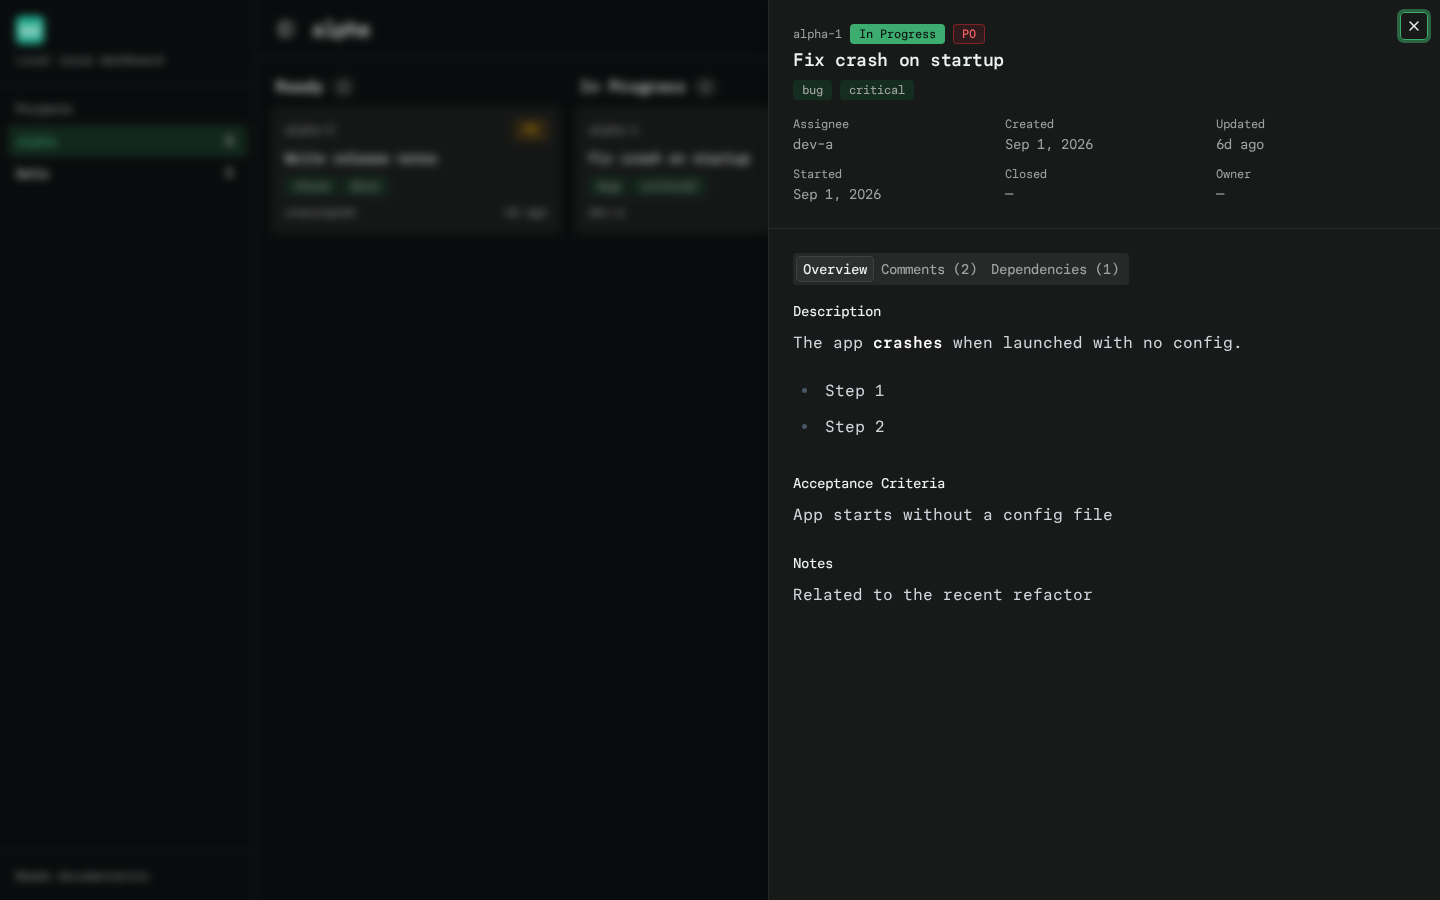
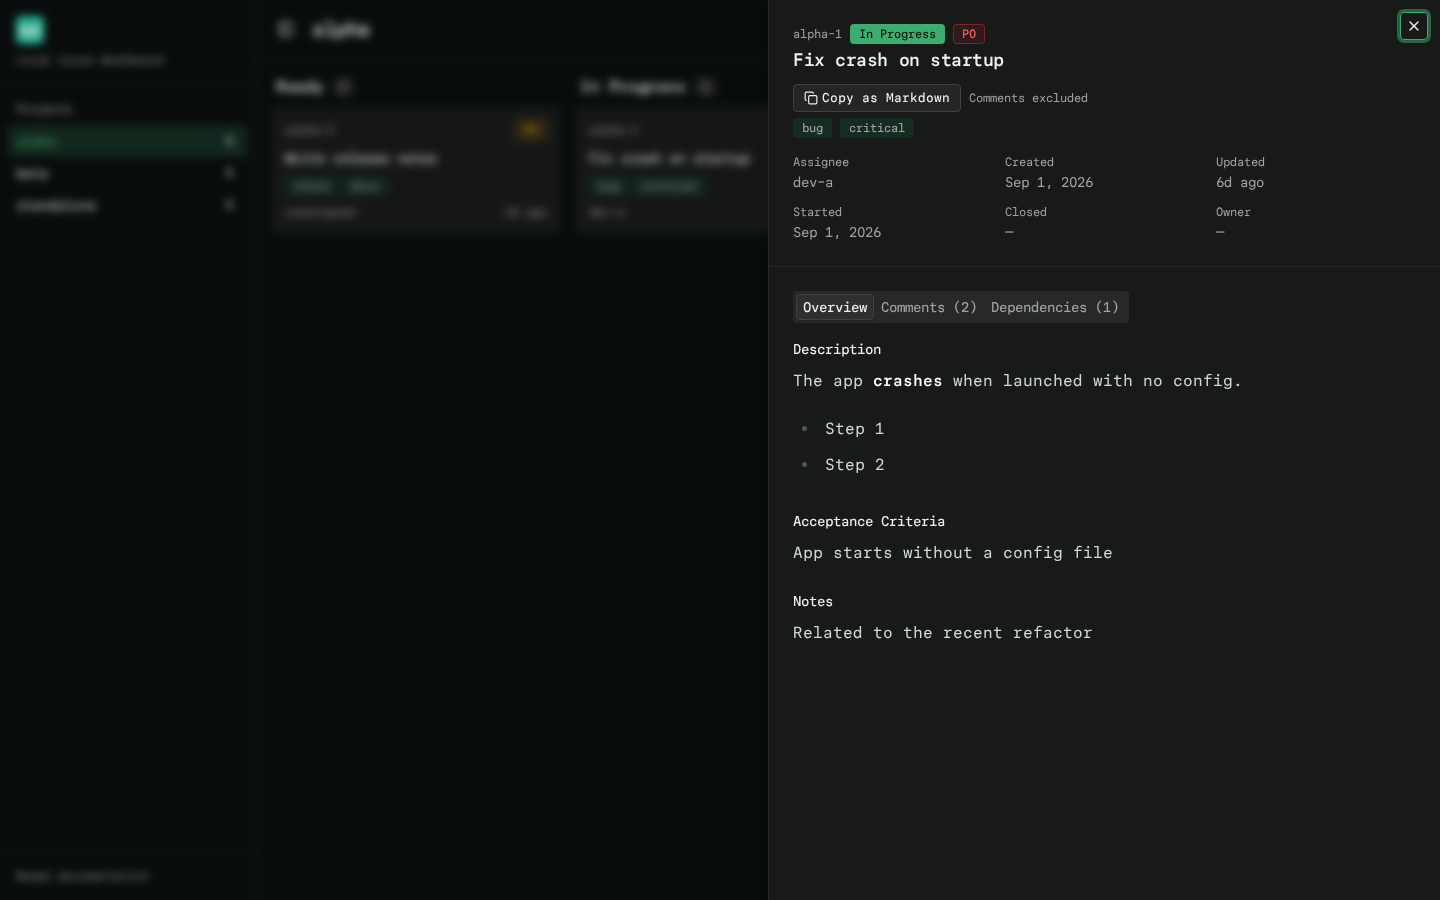
feat: copy issue context as markdown

diff --git a/src/components/issue-drawer.tsx b/src/components/issue-drawer.tsx
@@ -1,18 +1,20 @@
 "use client";
 
 import { useEffect, useState } from "react";
-import { RotateCwIcon } from "lucide-react";
+import { CheckIcon, CopyIcon, RotateCwIcon } from "lucide-react";
 import { LabelBadge, PriorityBadge, StatusBadge, TypeBadge } from "@/components/badges";
 import { Markdown } from "@/components/markdown";
 import { Button } from "@/components/ui/button";
 import { Sheet, SheetContent, SheetDescription, SheetHeader, SheetTitle } from "@/components/ui/sheet";
 import { Skeleton } from "@/components/ui/skeleton";
 import { Tabs, TabsContent, TabsList, TabsTrigger } from "@/components/ui/tabs";
+import { issueToMarkdown } from "@/lib/copy-md";
 import { formatDate, relativeTime } from "@/lib/format";
 import type { BeadsIssue, Comment, DependencyRef } from "@/lib/types";
 
 interface IssueDrawerProps {
   projectId: string;
+  projectPath: string;
   issueId: string | null;
   onClose: () => void;
   onSelectIssue: (id: string) => void;
@@ -71,12 +73,13 @@ function Section({ title, body }: { title: string; body?: string }) {
   );
 }
 
-export function IssueDrawer({ projectId, issueId, onClose, onSelectIssue }: IssueDrawerProps) {
+export function IssueDrawer({ projectId, projectPath, issueId, onClose, onSelectIssue }: IssueDrawerProps) {
   const [issue, setIssue] = useState<BeadsIssue | null>(null);
   const [comments, setComments] = useState<Comment[] | null>(null);
   const [error, setError] = useState<string | null>(null);
   const [reloadKey, setReloadKey] = useState(0);
   const [tab, setTab] = useState("overview");
+  const [copyState, setCopyState] = useState<"idle" | "success" | "error">("idle");
 
   useEffect(() => {
     if (!issueId) return;
@@ -117,6 +120,17 @@ export function IssueDrawer({ projectId, issueId, onClose, onSelectIssue }: Issu
   const dependencies = issue?.dependencies ?? [];
   const dependents = issue?.dependents ?? [];
 
+  async function handleCopy() {
+    if (!issue) return;
+    setCopyState("idle");
+    try {
+      await navigator.clipboard.writeText(issueToMarkdown(issue, projectPath));
+      setCopyState("success");
+    } catch {
+      setCopyState("error");
+    }
+  }
+
   return (
     <Sheet open={issueId !== null} onOpenChange={(open) => !open && onClose()}>
       <SheetContent side="right" className="flex flex-col gap-0 overflow-y-auto p-0 data-[side=right]:w-full data-[side=right]:sm:max-w-2xl">
@@ -147,6 +161,17 @@ export function IssueDrawer({ projectId, issueId, onClose, onSelectIssue }: Issu
                 <PriorityBadge priority={issue.priority} />
               </div>
               <SheetTitle>{issue.title}</SheetTitle>
+              <div className="mt-2 flex flex-wrap items-center gap-2">
+                <Button variant="outline" size="sm" onClick={handleCopy}>
+                  {copyState === "success" ? <CheckIcon className="size-3.5" /> : <CopyIcon className="size-3.5" />}
+                  Copy as Markdown
+                </Button>
+                <span className="text-xs text-muted-foreground">Comments excluded</span>
+                <span role="status" aria-live="polite" className="text-xs text-muted-foreground">
+                  {copyState === "success" && "Copied to clipboard"}
+                  {copyState === "error" && "Copy failed. Check clipboard permissions and try again."}
+                </span>
+              </div>
               <SheetDescription>
                 <div className="flex flex-wrap gap-2 pt-1">
                   <TypeBadge issueType={issue.issue_type} />

diff --git a/src/lib/copy-md.test.ts b/src/lib/copy-md.test.ts
@@ -1,0 +1,96 @@
+import { describe, expect, it } from "vitest";
+import { issueToMarkdown } from "./copy-md";
+import type { BeadsIssue } from "./types";
+
+function issue(overrides: Partial<BeadsIssue> = {}): BeadsIssue {
+  return {
+    id: "alpha-1",
+    title: "Fix crash on startup",
+    status: "in_progress",
+    priority: 0,
+    issue_type: "bug",
+    assignee: "dev-a",
+    labels: ["critical"],
+    dependency_count: 1,
+    dependent_count: 0,
+    comment_count: 2,
+    ...overrides,
+  };
+}
+
+describe("issueToMarkdown", () => {
+  it("includes unambiguous project and issue identity", () => {
+    const md = issueToMarkdown(issue(), "/home/u/proj");
+    expect(md).toContain("# alpha-1 · Fix crash on startup");
+    expect(md).toContain("**Project**: `/home/u/proj`");
+  });
+
+  it("preserves Markdown in body sections", () => {
+    const md = issueToMarkdown(
+      issue({
+        description: "The app **crashes** when launched.\n\n- Step 1\n- Step 2",
+        acceptance_criteria: "App starts without a config file",
+        notes: "Related to the refactor",
+      }),
+      "/proj",
+    );
+    expect(md).toContain("## Description\n\nThe app **crashes** when launched.\n\n- Step 1\n- Step 2");
+    expect(md).toContain("## Acceptance Criteria\n\nApp starts without a config file");
+    expect(md).toContain("## Notes\n\nRelated to the refactor");
+  });
+
+  it("omits absent sections cleanly", () => {
+    const md = issueToMarkdown(issue({ description: undefined, acceptance_criteria: undefined, notes: undefined }), "/proj");
+    expect(md).not.toContain("## Description");
+    expect(md).not.toContain("## Acceptance Criteria");
+    expect(md).not.toContain("## Notes");
+  });
+
+  it("does not include priority/type/assignee/labels when absent", () => {
+    const md = issueToMarkdown(
+      issue({ priority: undefined, issue_type: undefined, assignee: undefined, labels: undefined }),
+      "/proj",
+    );
+    expect(md).not.toContain("**Priority**");
+    expect(md).not.toContain("**Type**");
+    expect(md).not.toContain("**Assignee**");
+    expect(md).not.toContain("**Labels**");
+  });
+
+  it("includes typed dependency references when available", () => {
+    const md = issueToMarkdown(
+      issue({
+        dependencies: [
+          { id: "alpha-0", title: "Stabilize the 1.0 release", status: "open", type: "parent-child" },
+        ],
+      }),
+      "/proj",
+    );
+    expect(md).toContain("## Dependencies");
+    expect(md).toContain("### Depends on");
+    expect(md).toContain("`alpha-0` — Stabilize the 1.0 release (open, parent-child)");
+  });
+
+  it("lists dependents under Required by", () => {
+    const md = issueToMarkdown(
+      issue({
+        dependencies: [],
+        dependents: [{ id: "alpha-2", title: "Add export feature", status: "blocked", type: "child-parent" }],
+      }),
+      "/proj",
+    );
+    expect(md).toContain("### Required by");
+    expect(md).toContain("`alpha-2` — Add export feature (blocked, child-parent)");
+  });
+
+  it("omits the dependencies section entirely when none exist", () => {
+    const md = issueToMarkdown(issue({ dependencies: [], dependents: [] }), "/proj");
+    expect(md).not.toContain("## Dependencies");
+  });
+
+  it("makes comment exclusion explicit", () => {
+    const md = issueToMarkdown(issue(), "/proj");
+    expect(md).toContain("> Comments are not included in this copy.");
+    expect(md).not.toMatch(/c1|c2|Reproduced|Fix merged/);
+  });
+});

diff --git a/src/lib/copy-md.ts b/src/lib/copy-md.ts
@@ -1,0 +1,64 @@
+import type { BeadsIssue, DependencyRef } from "./types";
+
+function depId(dep: DependencyRef, index: number): string {
+  return dep.id ?? dep.issue_id ?? dep.depends_on_id ?? `dep-${index}`;
+}
+
+function formatDependency(dep: DependencyRef, index: number): string {
+  const id = depId(dep, index);
+  const title = dep.title ? ` — ${dep.title}` : "";
+  const detail = [dep.status, dep.type].filter(Boolean).join(", ");
+  const suffix = detail ? ` (${detail})` : "";
+  return `- \`${id}\`${title}${suffix}`;
+}
+
+function depLines(items: DependencyRef[], startIndex: number): string[] {
+  return items.map((dep, i) => formatDependency(dep, startIndex + i));
+}
+
+/**
+ * Render an issue as self-contained Markdown for agent handoffs and PR
+ * discussions. Copies only the already-loaded snapshot; absent sections are
+ * omitted and comments are intentionally excluded.
+ */
+export function issueToMarkdown(issue: BeadsIssue, projectPath: string): string {
+  const blocks: string[] = [];
+
+  blocks.push(`# ${issue.id} · ${issue.title}`);
+
+  const meta: string[] = [];
+  meta.push(`**Project**: \`${projectPath}\``);
+  meta.push(`**Status**: ${issue.status}`);
+  if (issue.priority !== undefined) meta.push(`**Priority**: P${issue.priority}`);
+  if (issue.issue_type) meta.push(`**Type**: ${issue.issue_type}`);
+  if (issue.assignee) meta.push(`**Assignee**: ${issue.assignee}`);
+  if (issue.labels && issue.labels.length > 0) meta.push(`**Labels**: ${issue.labels.join(", ")}`);
+  blocks.push(meta.join("\n\n"));
+
+  if (issue.description) {
+    blocks.push(`## Description\n\n${issue.description}`);
+  }
+  if (issue.acceptance_criteria) {
+    blocks.push(`## Acceptance Criteria\n\n${issue.acceptance_criteria}`);
+  }
+  if (issue.notes) {
+    blocks.push(`## Notes\n\n${issue.notes}`);
+  }
+
+  const dependencies = issue.dependencies ?? [];
+  const dependents = issue.dependents ?? [];
+  if (dependencies.length > 0 || dependents.length > 0) {
+    const depBlocks: string[] = ["## Dependencies"];
+    if (dependencies.length > 0) {
+      depBlocks.push(`### Depends on\n\n${depLines(dependencies, 0).join("\n")}`);
+    }
+    if (dependents.length > 0) {
+      depBlocks.push(`### Required by\n\n${depLines(dependents, dependencies.length).join("\n")}`);
+    }
+    blocks.push(depBlocks.join("\n\n"));
+  }
+
+  blocks.push(`> Comments are not included in this copy.`);
+
+  return blocks.join("\n\n") + "\n";
+}

diff --git a/tests/e2e/app.spec.ts b/tests/e2e/app.spec.ts
@@ -46,6 +46,46 @@ test.describe("board journey", () => {
     await expect(page.getByRole("dialog")).toBeVisible();
   });
 
+  test.describe("copy as markdown", () => {
+    test("copies the issue snapshot as markdown", async ({ page, context }) => {
+      await context.grantPermissions(["clipboard-read", "clipboard-write"], {
+        origin: "http://127.0.0.1:8455",
+      });
+      await page.goto("/");
+      await page.getByRole("button", { name: /alpha-1.*Fix crash on startup/ }).click();
+      const drawer = page.getByRole("dialog");
+      await drawer.getByRole("button", { name: "Copy as Markdown" }).click();
+      await expect(drawer.getByText("Copied to clipboard")).toBeVisible();
+
+      const text = await page.evaluate(() => navigator.clipboard.readText());
+      expect(text).toContain("# alpha-1 · Fix crash on startup");
+      expect(text).toContain("**Project**:");
+      expect(text).toContain("**Status**: in_progress");
+      expect(text).toContain("## Description");
+      expect(text).toContain("## Acceptance Criteria");
+      expect(text).toContain("## Dependencies");
+      expect(text).toContain("> Comments are not included in this copy.");
+      expect(text).not.toContain("Reproduced");
+      await page.evaluate(() => navigator.clipboard.writeText("Something else"));
+      await drawer.getByRole("button", { name: "Copy as Markdown" }).click();
+      await expect.poll(() => page.evaluate(() => navigator.clipboard.readText())).toBe(text);
+    });
+
+    test("reports clipboard failure accessibly", async ({ page }) => {
+      await page.addInitScript(() => {
+        Object.defineProperty(navigator, "clipboard", {
+          value: { writeText: () => Promise.reject(new Error("denied")) },
+          configurable: true,
+        });
+      });
+      await page.goto("/");
+      await page.getByRole("button", { name: /alpha-1.*Fix crash on startup/ }).click();
+      const drawer = page.getByRole("dialog");
+      await drawer.getByRole("button", { name: "Copy as Markdown" }).click();
+      await expect(drawer.getByText(/Copy failed/)).toBeVisible();
+    });
+  });
+
   test("switches between light and dark mode", async ({ page }) => {
     await page.goto("/");
     const html = page.locator("html");

diff --git a/src/components/dashboard.tsx b/src/components/dashboard.tsx
@@ -258,6 +258,7 @@ export function Dashboard() {
         <IssueDrawer
           key={drawerIssueId ?? "closed"}
           projectId={selectedId ?? ""}
+          projectPath={selectedProject?.path ?? ""}
           issueId={drawerIssueId}
           onClose={() => setDrawerIssueId(null)}
           onSelectIssue={setDrawerIssueId}

diff --git a/README.md b/README.md
@@ -32,6 +32,9 @@ view-beads --no-open  # only print the link
 The server keeps running in the background. Running `view-beads` again reuses
 it and just re-opens the browser.
 
+Use **Copy as Markdown** in an issue drawer to copy its loaded details for an
+agent handoff or PR discussion. Comments are excluded.
+
 ### Which projects are shown?
 
 Every beads project found on your machine, in this order:
